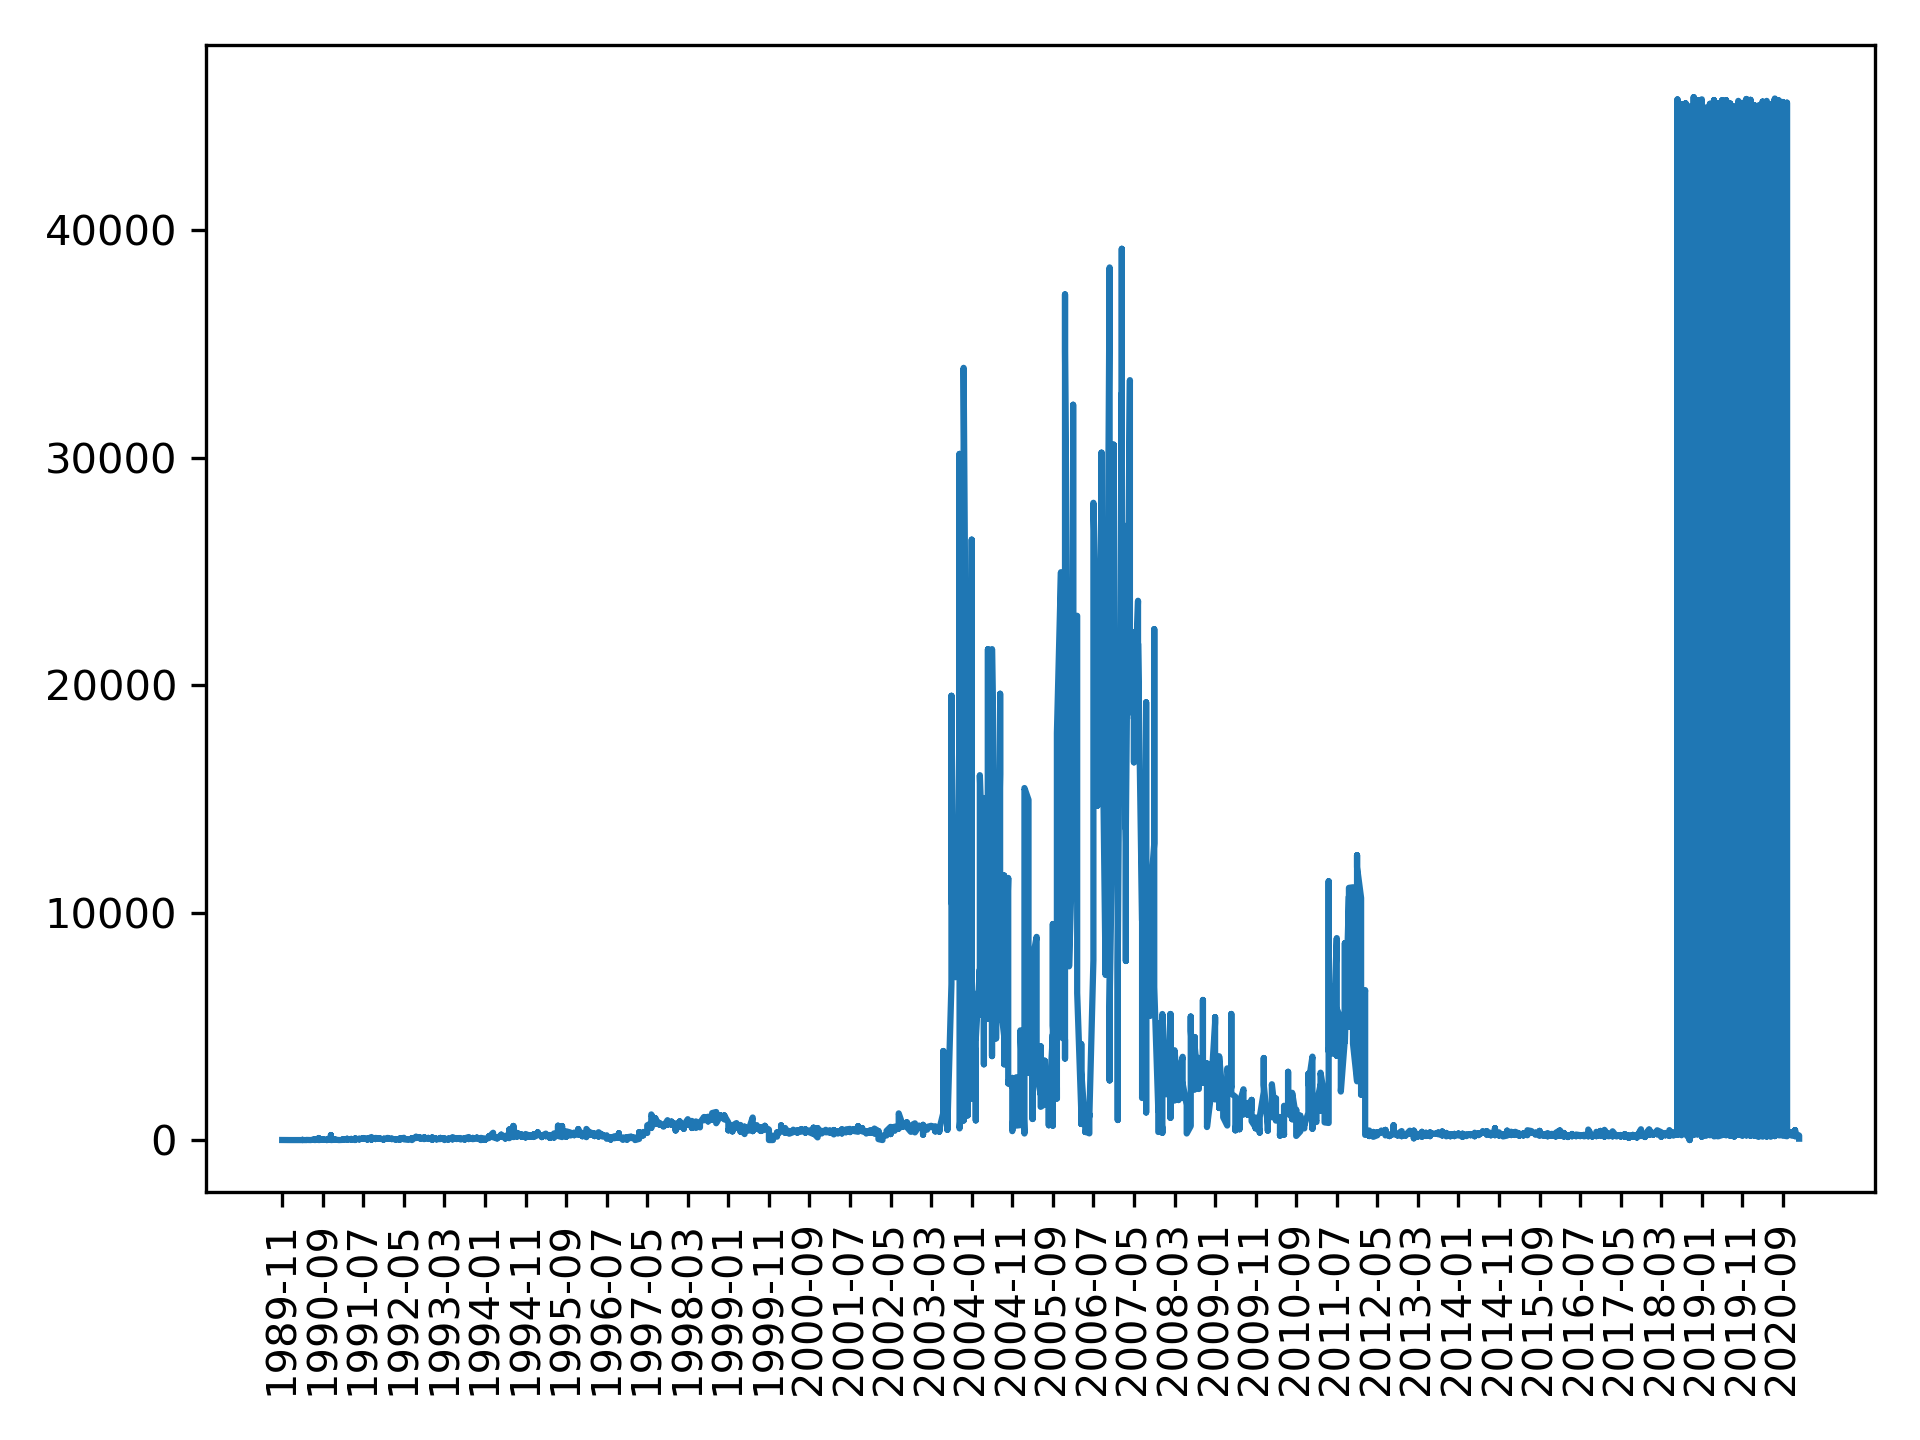
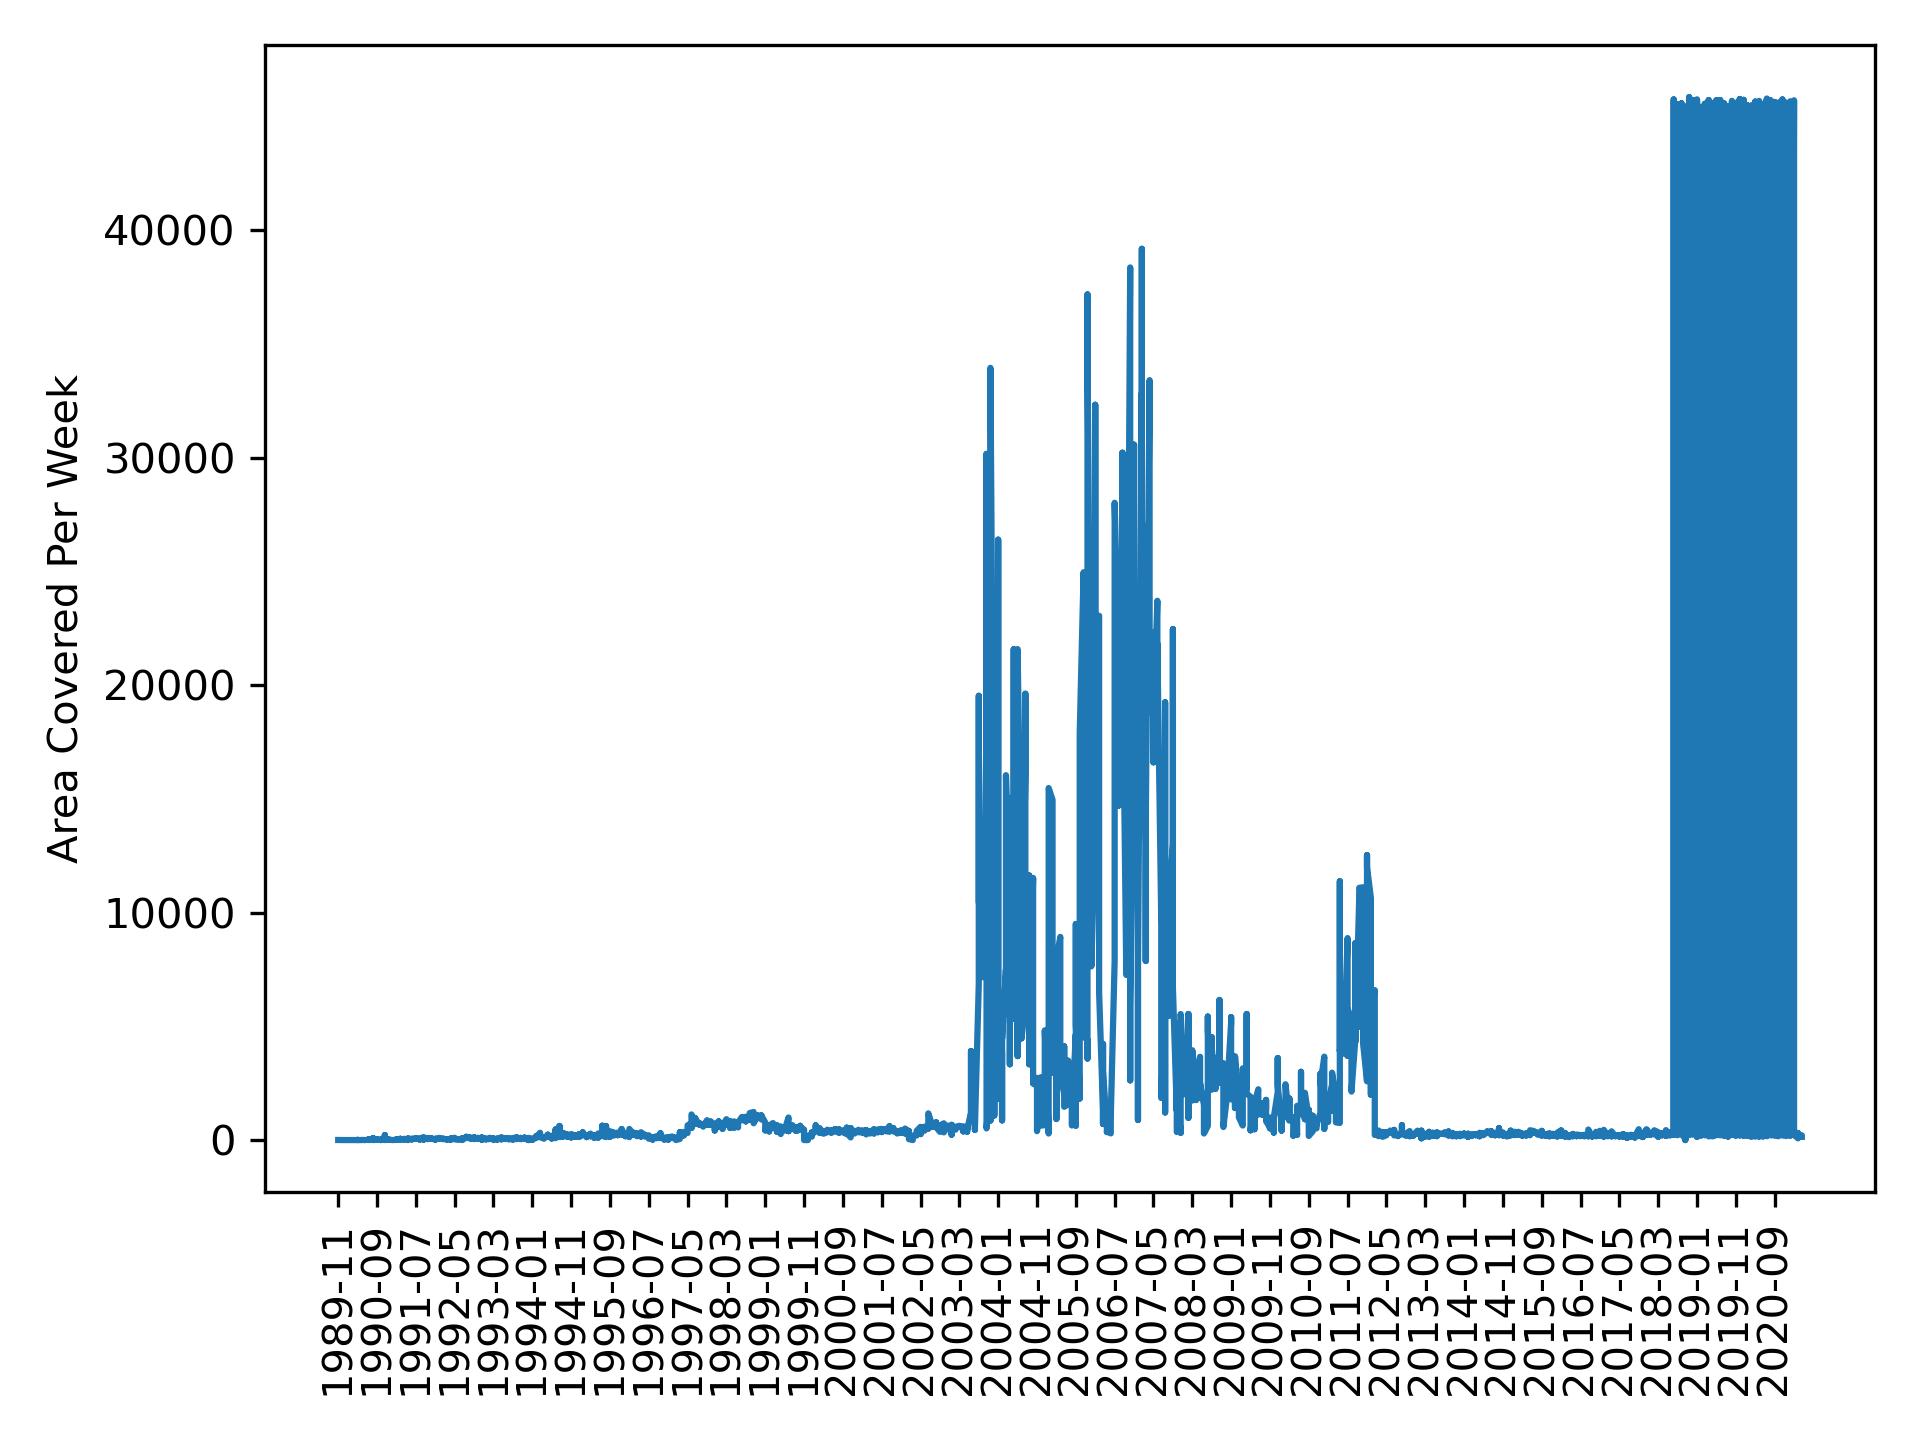
plot updates

diff --git a/mast_sound.py b/mast_sound.py
@@ -10,7 +10,7 @@ from astronify.series import SoniSeries
 plt.interactive(False)
 
 # Read the data
-df = pd.read_csv('data/mast_time.csv')
+df = pd.read_csv('data/mast_v4_time.csv')
 t = Table.from_pandas(df)
 t['year'] = [x.datetime.strftime('%Y-%m') for x in Time(t['date'], format='mjd')]
 
@@ -23,6 +23,7 @@ plt.plot(t['year'], t['area'])  # area on sky over time
 plt.xticks(rotation=90)
 ax = plt.gca()
 ax.set_xticks(ax.get_xticks()[::10])
+ax.set_ylabel('Area Covered Per Week')
 plt.tight_layout()
 plt.savefig('image/mast_area.png', dpi=300)
 plt.close()
@@ -31,6 +32,7 @@ plt.plot(t['year'], np.log10(t['area']))  # area on sky over time
 plt.xticks(rotation=90)
 ax = plt.gca()
 ax.set_xticks(ax.get_xticks()[::10])
+ax.set_ylabel('Log Area Covered Per Week')
 plt.tight_layout()
 plt.savefig('image/mast_logarea.png', dpi=300)
 plt.close()
@@ -39,6 +41,7 @@ plt.plot(t['year'], t['exp_counts'])  # exposure time over time
 plt.xticks(rotation=90)
 ax = plt.gca()
 ax.set_xticks(ax.get_xticks()[::10])
+ax.set_ylabel('Exopsure Time Per Week')
 plt.tight_layout()
 plt.savefig('image/mast_exptime.png', dpi=300)
 plt.close()
@@ -47,6 +50,7 @@ plt.plot(t['year'], t['obs_counts'])  # observation counts over time
 plt.xticks(rotation=90)
 ax = plt.gca()
 ax.set_xticks(ax.get_xticks()[::10])
+ax.set_ylabel('Observations Added Per Week')
 plt.tight_layout()
 plt.savefig('image/mast_counts.png', dpi=300)
 plt.close()
